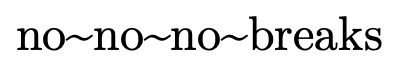
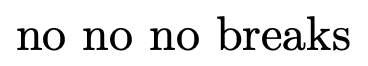
docs: fix text-mode tilde/accent swap; 7 more KaTeX equations render
Text-mode `~' was misread as nbsp while the '~' char emitted a
visible glyph - exactly swapped vs pinned KaTeX (mtext U+00A0).
Group braces are transparent in text, and accents take braced args,
so \text{\~{a}} renders ã and \text{\'{a}} renders á.

Drops 7 stale engine gaps (now render with KaTeX's equations);
\v \. \H stay gap-listed (no precomposed form in the table).
TDD: 3 mathml emitter tests + 1 stub-provider layout test, all
watched fail pre-fix.

Gates: regen exit 0 (552/552, 499 renders, 53 gaps); zig 118/118 +
4/4; audit 0; subset __TEXT -80B.

Changed region(s): [[0.0299, 0.2424, 0.9565, 0.7879]]

diff --git a/docs/katex-syntax.md b/docs/katex-syntax.md
@@ -15,12 +15,12 @@ A render of every accepted function, generated from `docs/support-table.md` by `
 | `&` | `\begin{matrix}\na & b \\\nc & d\n\end{matrix}` | ![](renders/amp.png) |  |
 | `\&` | `\&` | ![](renders/amp-2.png) |  |
 | `'` | `'` | ![](renders/prime.png) |  |
-| `\'` | `\text{\'{a}}` | *no render (engine)* | text-mode accent inside \text unsupported; KaTeX accepts |
+| `\'` | `\text{\'{a}}` | ![](renders/prime-2.png) |  |
 | `(` | `(` | ![](renders/lp.png) |  |
 | `)` | `)` | ![](renders/rp.png) |  |
 | `\(…\)` | `\text{\(\frac a b\)}` | *no render (overclaim)* | inline-math delimiters, not math-mode input; pinned KaTeX rejects inside math |
 | `\ ` | `a\ b` | ![](renders/ctrlspace.png) |  |
-| `\"` | `\text{\"{a}}` | *no render (engine)* | text-mode accent inside \text unsupported; KaTeX accepts |
+| `\"` | `\text{\"{a}}` | ![](renders/quot.png) |  |
 | `\$` | `\$` | ![](renders/dollar.png) |  |
 | `\,` | `a\,\,{b}` | ![](renders/comma.png) |  |
 | `\.` | `\text{\.{a}}` | *no render (engine)* | text-mode accent inside \text unsupported; KaTeX accepts |
@@ -28,9 +28,9 @@ A render of every accepted function, generated from `docs/support-table.md` by `
 | `\;` | `a\n\;\;{b}` | ![](renders/semi.png) |  |
 | `_` | `x_i` | ![](renders/us.png) |  |
 | `\_` | `\_` | ![](renders/us-2.png) |  |
-| `\`` | `\text{\`{a}}` | *no render (engine)* | text-mode accent inside \text unsupported; KaTeX accepts |
+| `\`` | `\text{\`{a}}` | ![](renders/fn.png) |  |
 | `<` | `<` | ![](renders/lt.png) |  |
-| `\=` | `\text{\={a}}` | *no render (engine)* | text-mode accent inside \text unsupported; KaTeX accepts |
+| `\=` | `\text{\={a}}` | ![](renders/eq.png) |  |
 | `>` | `>` | ![](renders/gt.png) |  |
 | `\>` | — | — | owner #14 |
 | `[` | `[` | ![](renders/fn-2.png) |  |
@@ -45,7 +45,7 @@ A render of every accepted function, generated from `docs/support-table.md` by `
 | `\~` | `\text{\~{a}}` | ![](renders/tilde-2.png) |  |
 | `\\ ` | `\begin{matrix}\na & b \\\nc & d\n\end{matrix}` | ![](renders/newline.png) |  |
 | `^` | `x^i` | ![](renders/pow.png) |  |
-| `\^` | `\text{\^{a}}` | *no render (engine)* | text-mode accent inside \text unsupported; KaTeX accepts |
+| `\^` | `\text{\^{a}}` | ![](renders/pow-2.png) |  |
 
 ## A
 
@@ -868,7 +868,7 @@ A render of every accepted function, generated from `docs/support-table.md` by `
 | `\qquad` | `a\qquad\qquad{b}` | ![](renders/qquad.png) |  |
 | `\quad` | `a\quad\quad{b}` | ![](renders/quad.png) |  |
 | `\R` | — | — | owner #1 |
-| `\r` | `\text{\r{a}}` | *no render (engine)* | text-mode accent inside \text unsupported; KaTeX accepts |
+| `\r` | `\text{\r{a}}` | ![](renders/r.png) |  |
 | `\raise` | — | — | goldens: rej-unsup-raise |
 | `\raisebox` | `h\raisebox{2pt}{ighe}r` | ![](renders/raisebox.png) |  |
 | `\rang` | `\langle A\rang` | ![](renders/rang.png) |  |
@@ -1112,7 +1112,7 @@ A render of every accepted function, generated from `docs/support-table.md` by `
 
 | Function | Example | Render | Note |
 | --- | --- | --- | --- |
-| `\u` | `\text{\u{a}}` | *no render (engine)* | text-mode accent inside \text unsupported; KaTeX accepts |
+| `\u` | `\text{\u{a}}` | ![](renders/u.png) |  |
 | `\Uarr` | — | — | owner #1 |
 | `\uArr` | — | — | owner #1 |
 | `\uarr` | — | — | owner #1 |
